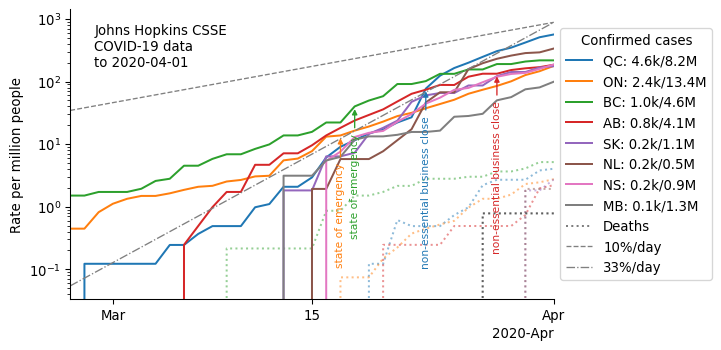
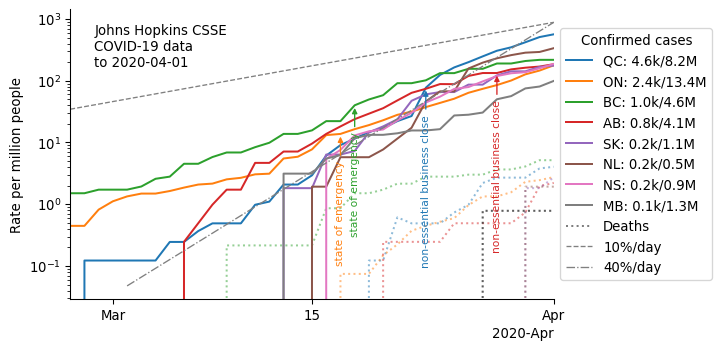
Changed upper growth rate to 40%/day.

diff --git a/visualization/plots.py b/visualization/plots.py
@@ -83,6 +83,7 @@ SGC_CODES = {
     }
 DPI = 96
 
+
 # %% definitions
 def maybe_date(item):
     try:
@@ -102,7 +103,7 @@ def aggregator(item):
         return 'first'
 
 
-def add_rates(ax, dates, rates=(0.1, 0.33), linestyles=('--', '-.', ':'),
+def add_rates(ax, dates, rates=(0.1, 0.4), linestyles=('--', '-.', ':'),
               **kwargs):
     xlim = date2num([dates[0], dates[-1]])
     ylim = ax.get_ylim()
